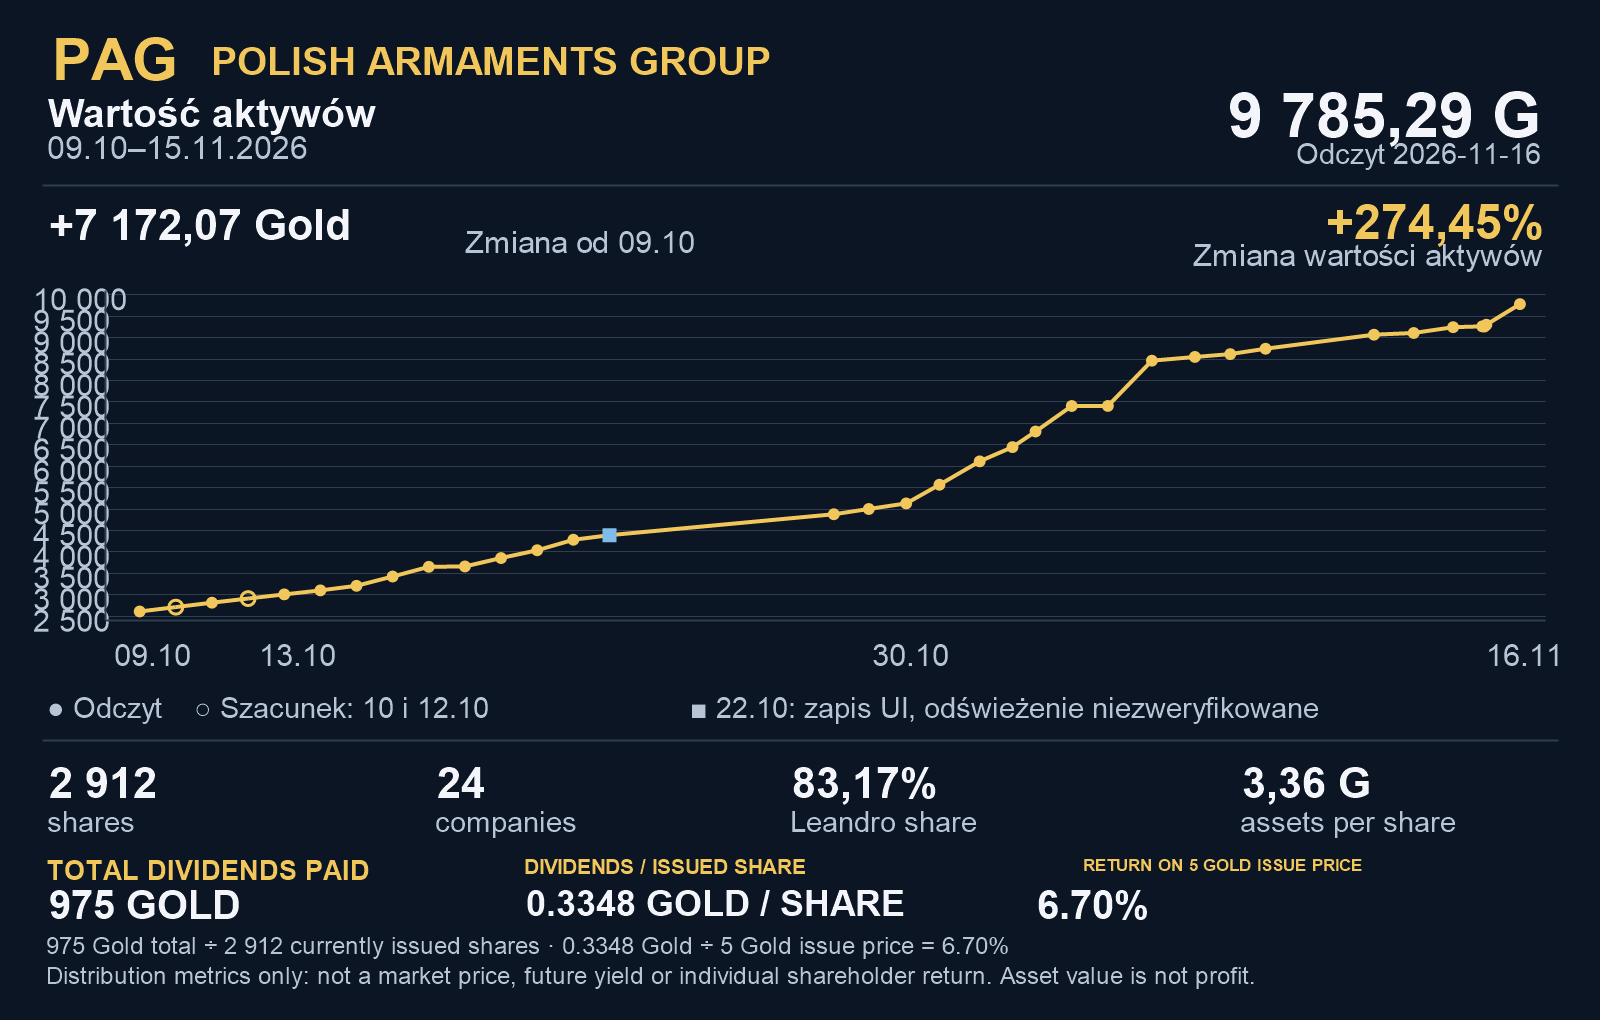
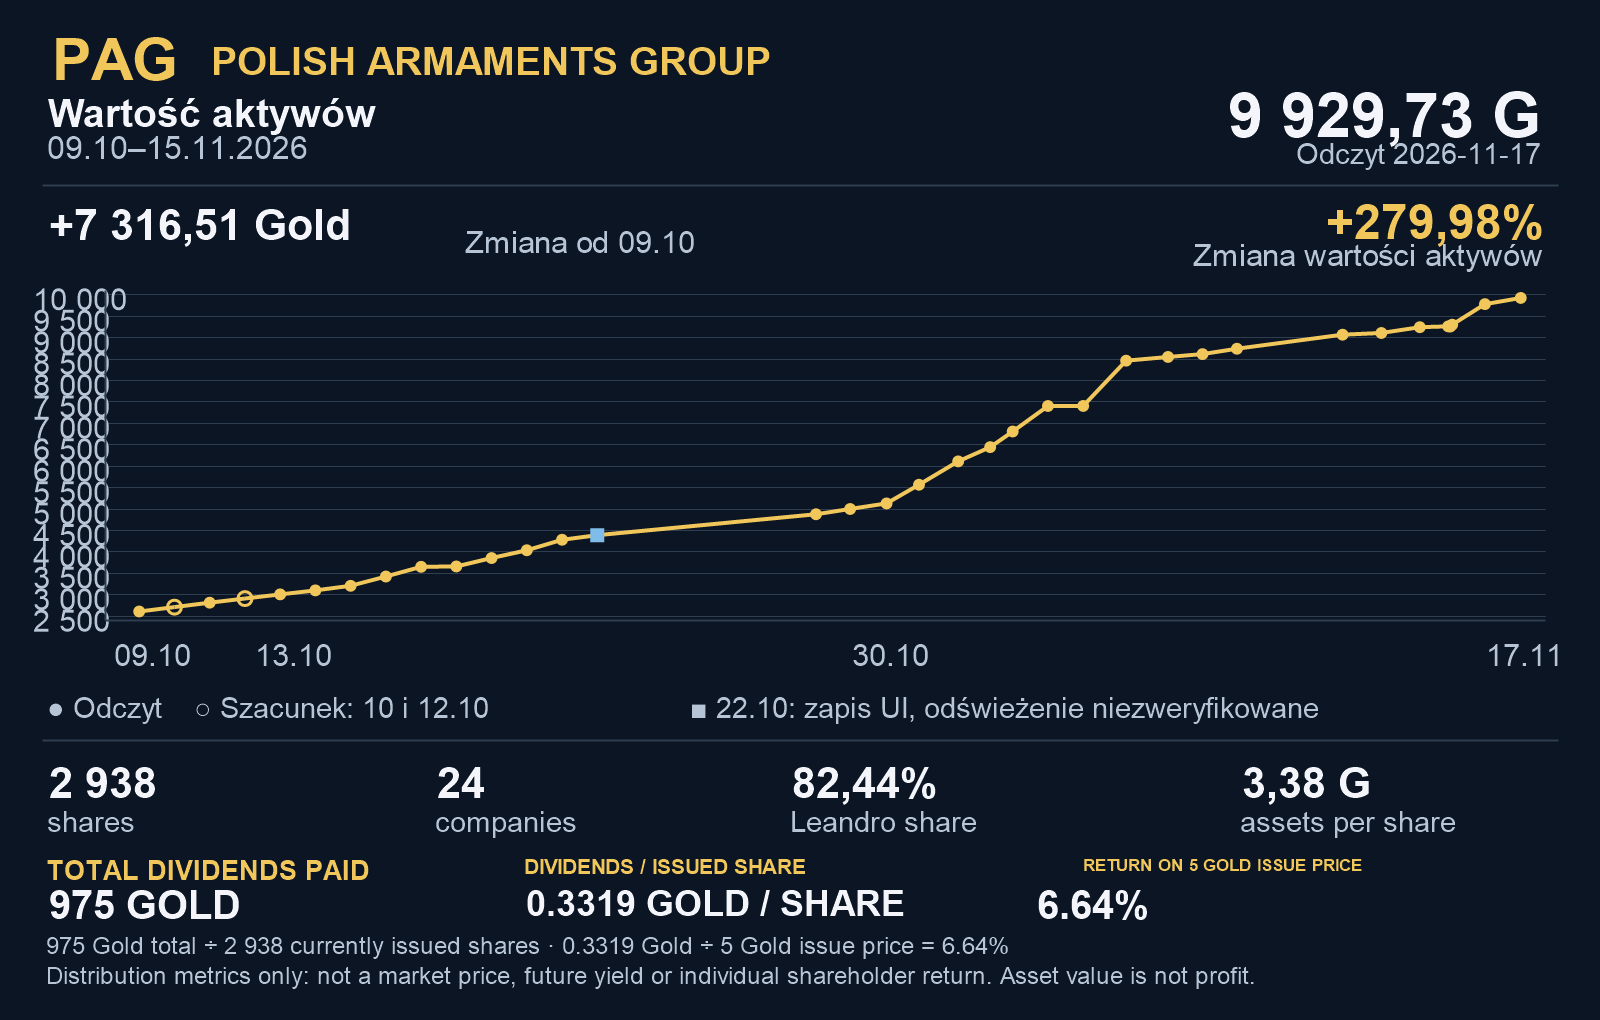
Update PAG chart for November 17

diff --git a/pag-chart.html b/pag-chart.html
@@ -2323,6 +2323,21 @@ const history={
       &quot;source&quot;: &quot;Odczyt publicznego HTML Vexa przez HTTP GET bez logowania i bez odświeżania raportu; Leandro Daniels z wiersza imiennego; Total companies.&quot;,
       &quot;source_url&quot;: &quot;https://vexa.e-sim.org/stockCompany.html?id=45&quot;,
       &quot;report_refresh_confirmed&quot;: false
+    },
+    {
+      &quot;date&quot;: &quot;2026-11-17&quot;,
+      &quot;observed_at&quot;: &quot;2026-11-17T18:57:56Z&quot;,
+      &quot;value_gold&quot;: 9929.73,
+      &quot;shares&quot;: 2938,
+      &quot;leandro_shares&quot;: 2422,
+      &quot;leandro_percent_reported&quot;: 82.44,
+      &quot;factories&quot;: 24,
+      &quot;shareholders&quot;: 12,
+      &quot;reported_book_value_per_share_gold&quot;: 3.38,
+      &quot;status&quot;: &quot;confirmed&quot;,
+      &quot;source&quot;: &quot;Odczyt publicznego HTML Vexa przez HTTP GET bez logowania i bez odświeżania raportu; Leandro Daniels z wiersza imiennego; Total companies.&quot;,
+      &quot;source_url&quot;: &quot;https://vexa.e-sim.org/stockCompany.html?id=45&quot;,
+      &quot;report_refresh_confirmed&quot;: false
     }
   ],
   &quot;events&quot;: [

diff --git a/pag-growth.html b/pag-growth.html
@@ -531,6 +531,21 @@ const history={
       "source": "Odczyt publicznego HTML Vexa przez HTTP GET bez logowania i bez odświeżania raportu; Leandro Daniels z wiersza imiennego; Total companies.",
       "source_url": "https://vexa.e-sim.org/stockCompany.html?id=45",
       "report_refresh_confirmed": false
+    },
+    {
+      "date": "2026-11-17",
+      "observed_at": "2026-11-17T18:57:56Z",
+      "value_gold": 9929.73,
+      "shares": 2938,
+      "leandro_shares": 2422,
+      "leandro_percent_reported": 82.44,
+      "factories": 24,
+      "shareholders": 12,
+      "reported_book_value_per_share_gold": 3.38,
+      "status": "confirmed",
+      "source": "Odczyt publicznego HTML Vexa przez HTTP GET bez logowania i bez odświeżania raportu; Leandro Daniels z wiersza imiennego; Total companies.",
+      "source_url": "https://vexa.e-sim.org/stockCompany.html?id=45",
+      "report_refresh_confirmed": false
     }
   ],
   "events": [

diff --git a/README.md b/README.md
@@ -8,15 +8,15 @@
 
 [Interaktywny wykres](pag-growth.html) · [Eksport HTML](pag-chart.html) · [Historia danych](history.json) · [Spółka w Vexa](https://vexa.e-sim.org/stockCompany.html?id=45)
 
-Ostatni odczyt widocznej strony Vexa: **16 listopada 2026, 19:35 czasu polskiego** — wyświetlana szacowana wartość **9 785,29 Gold**, **2 912 akcji**, **12 udziałowców** i **24 firmy**. Leandro Daniels ma **2 422 akcje (83,17%)**. Wyświetlana wartość aktywów na akcję: **3,36 Gold**. Odczyt wykonano bez odświeżania raportu.
+Ostatni odczyt widocznej strony Vexa: **17 listopada 2026, 19:57 czasu polskiego** — wyświetlana szacowana wartość **9 929,73 Gold**, **2 938 akcji**, **12 udziałowców** i **24 firmy**. Leandro Daniels ma **2 422 akcje (82,44%)**. Wyświetlana wartość aktywów na akcję: **3,38 Gold**. Odczyt wykonano bez odświeżania raportu.
 
-Względem poprzedniego odczytu z 15 listopada o 21:17: wartość wzrosła o **479,03 Gold (+5,15%)**. Przybyło **112 akcji** i **1 udziałowiec**; liczba akcji Leandro oraz liczba firm pozostały bez zmian. Jego udział zmniejszył się wskutek emisji z 86,50% do **83,17%**.
+Względem poprzedniego odczytu z 16 listopada o 19:35: wartość wzrosła o **144,44 Gold (+1,48%)**. Przybyło **26 akcji**; liczba akcji Leandro, udziałowców i firm pozostała bez zmian. Jego udział zmniejszył się wskutek emisji z 83,17% do **82,44%**.
 
-Historia zachowuje **34 pomiary** do 16 listopada, w tym trzy odczyty z 15 listopada. Logi Vexa potwierdzają **975 Gold w siedmiu wypłatach**: 200 Gold (13 października), 275 Gold w czterech przelewach (30 października) i 500 Gold w dwóch przelewach (13–14 listopada). Kolejne rundy wypłat wzrosły o **37,50%** oraz **81,82%**. Odstępy wyniosły około 17 dni, a potem 14–15 dni; statut określa plan dwutygodniowy, nie gwarantowaną regularność.
+Historia zachowuje **35 pomiarów** do 17 listopada, w tym trzy odczyty z 15 listopada. Logi Vexa potwierdzają **975 Gold w siedmiu wypłatach**: 200 Gold (13 października), 275 Gold w czterech przelewach (30 października) i 500 Gold w dwóch przelewach (13–14 listopada). Kolejne rundy wypłat wzrosły o **37,50%** oraz **81,82%**. Odstępy wyniosły około 17 dni, a potem 14–15 dni; statut określa plan dwutygodniowy, nie gwarantowaną regularność.
 
 The chart now shows **TOTAL DIVIDENDS PAID: 975 GOLD**, **DIVIDENDS PER CURRENTLY ISSUED SHARE: 0.3482 GOLD / SHARE**, and **CUMULATIVE RETURN ON 5 GOLD ISSUE PRICE: 6.96%**. The calculation is 0.3482 Gold in recorded dividends per currently issued share ÷ 5 Gold issue price. It is a distribution metric for a share bought at the original 5 Gold issue price, not a market price, future yield or individual shareholder return.
 
-Najnowsze **9 785,29 Gold wartości aktywów + 975 Gold wcześniej wypłaconych dywidend = 10 760,29 Gold** to miara skumulowana do porównania. Nie oznacza aktywów pozostających w spółce, zysku PAG ani stopy zwrotu akcjonariusza. Wycena aktywów obejmuje zmiany kapitału i cen.
+Najnowsze **9 929,73 Gold wartości aktywów + 975 Gold wcześniej wypłaconych dywidend = 10 904,73 Gold** to miara skumulowana do porównania. Nie oznacza aktywów pozostających w spółce, zysku PAG ani stopy zwrotu akcjonariusza. Wycena aktywów obejmuje zmiany kapitału i cen.
 
 ## Źródła i statusy
 
